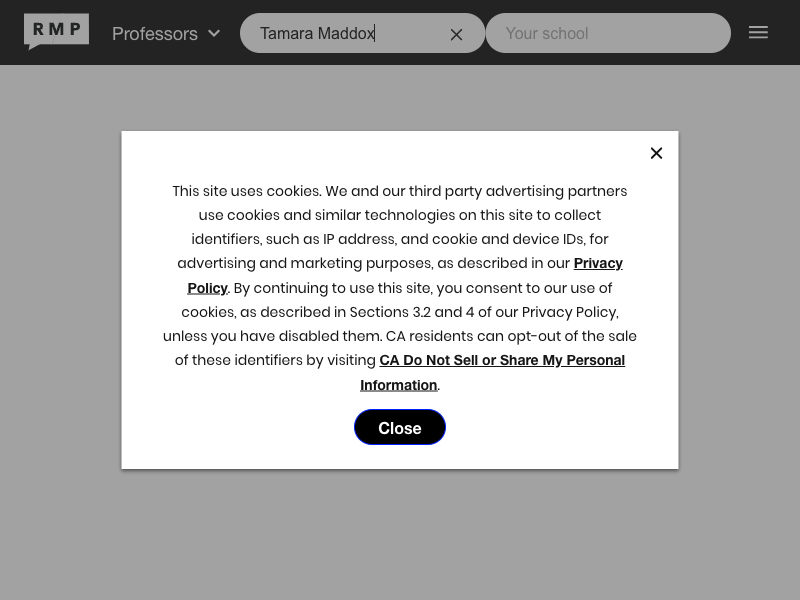
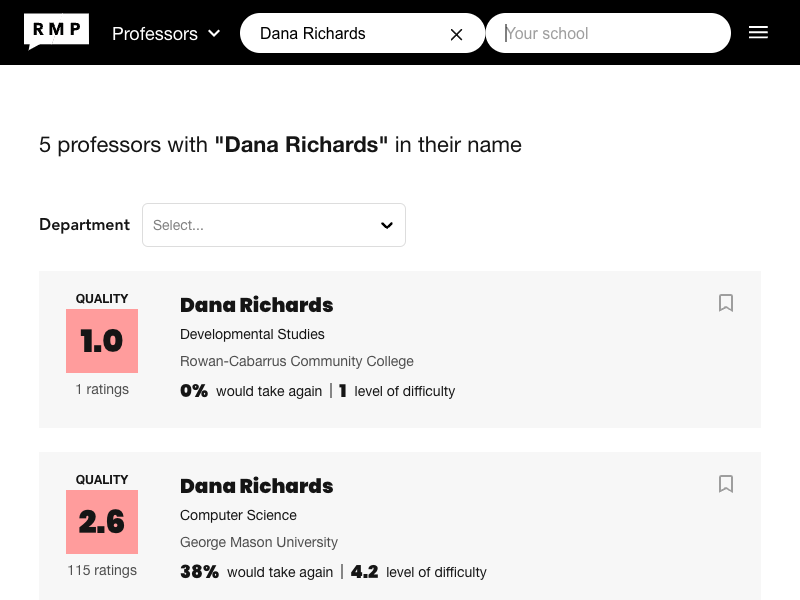
fixed time out issue

diff --git a/rmpReview.js b/rmpReview.js
@@ -11,11 +11,12 @@ const puppeteer = require("puppeteer");
  */
 async function getProfessorURLFromRMP(professorName) {
   const browser = await puppeteer.launch({
-    headless: "new",
+    headless: "false",
     args: ["--disable-popup-blocking"],
   });
   const page = await browser.newPage();
-  await page.goto("https://www.ratemyprofessors.com/school/352", { timeout: 50000 });
+//   await page.setJavaScriptEnabled(false);
+  await page.goto("https://www.ratemyprofessors.com/school/352", { timeout: 60000 });
 
   const inputElement = await page.$(
     ".Search__DebouncedSearchInput-sc-10lefvq-1"
@@ -172,17 +173,20 @@ async function getReviewForProfessor(professorName) {
 //     console.error("Error fetching reviews:", error);
 //   });
 
-getReviewForProfessor("Tamara Maddox")
-  .then((reviews) => {
-    console.log("length: " + reviews.length);
-    reviews.forEach(function (review) {
-      console.log(reviews);
-    });
-  })
-  .catch((error) => {
-    console.error("Error fetching reviews:", error.stack);
-    // error.page.screenshot({path: 'error_screenshot.png'});
-  });
+
+console.log(getProfessorURLFromRMP('Dana Richards'));
+
+// getReviewForProfessor("Tamara Maddox")
+//   .then((reviews) => {
+//     console.log("length: " + reviews.length);
+//     reviews.forEach(function (review) {
+//       console.log(reviews);
+//     });
+//   })
+//   .catch((error) => {
+//     console.error("Error fetching reviews:", error.stack);
+//     // error.page.screenshot({path: 'error_screenshot.png'});
+//   });
 
 // getProfessorURLFromRMP("Dana Richards");
 

diff --git a/rmpReviewTest.js b/rmpReviewTest.js
@@ -4,14 +4,11 @@ const { describe, it, expect } = require('@jest/globals');
 describe('rmpReview', () => {
     let rmpReview;
 
-    beforeEach(() => {
-        // Create a new instance of rmpReview before each test
-        rmpReview = new rmpReview();
 
-      });
       //tests for getProfessorURLFromRMP
-      it('should provide a valid URL', () => {
-        expect(rmpReview.getProfessorURLFromRMP('Dana Richards').toBe("https://www.ratemyprofessors.com/professor/2760618"));
+      it('should provide a valid URL', async () => {
+        const result = await rmpReview.getProfessorURLFromRMP('Dana Richards');
+        expect(result).toBe("https://www.ratemyprofessors.com/professor/417968"));
       });
 
       it('should provide an invalid URL', () => {
